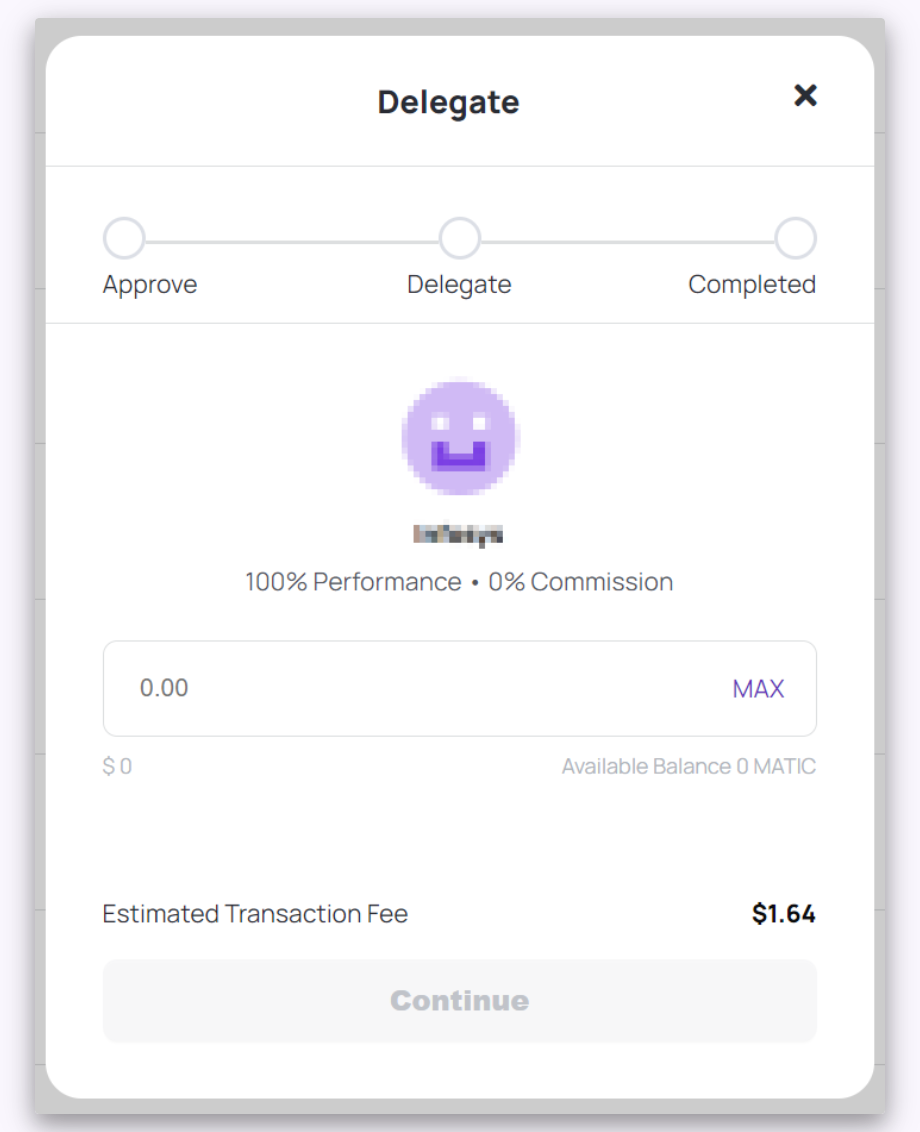
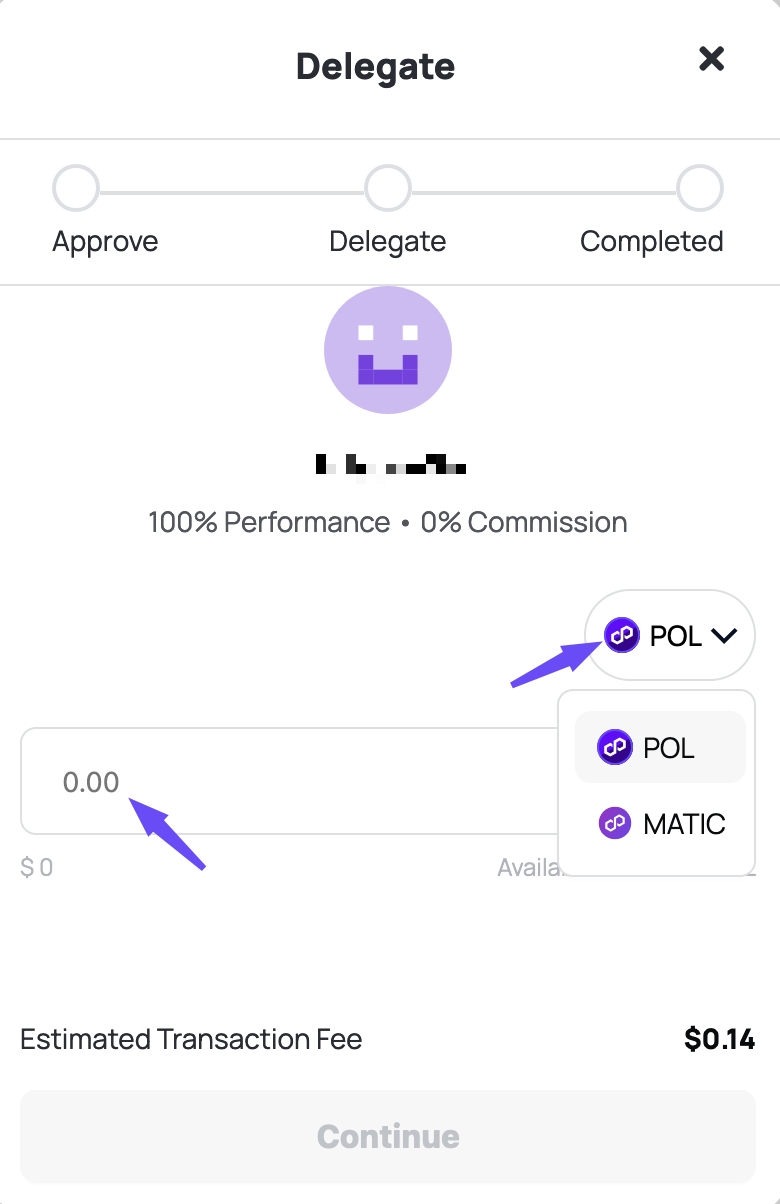
PoS: MATIC to POL update
- Update MATIC token to POL across different PoS docs

diff --git a/docs/pos/how-to/delegate.md b/docs/pos/how-to/delegate.md
@@ -2,12 +2,20 @@
 comments: true
 ---
 
-
 # How to delegate
 
-This is a step-by-step guide to help you become a delegator on the Polygon Network.
+This is a step-by-step guide to help you become a delegator in the Polygon network.
 
-The only prerequisite is to have your MATIC tokens and ETH on the Ethereum mainnet address.
+The only prerequisite is to have your POL tokens and ETH on the Ethereum mainnet address.
+
+!!! info "Staking MATIC"
+
+    Polygon network is transitioning from MATIC to POL, which will serve as the gas and staking token on Polygon PoS. Use the links below to learn more:
+
+    - [Migrate from MATIC to POL](../get-started/matic-to-pol.md)
+    - [POL token specs](../concepts/tokens/pol.md)
+    
+    It is advisable to [migrate your MATIC tokens to POL](../get-started/matic-to-pol.md), but if you continue to delegate MATIC tokens, you'll receive the staking rewards in the form of POL tokens.
 
 ## Access the dashboard
 
@@ -34,7 +42,7 @@ The only prerequisite is to have your MATIC tokens and ETH on the Ethereum mainn
     ![img](../../img/pos/home.png)
     </center>
 
-  2. Enter the amount of MATIC to delegate.
+  2. Select POL or MATIC from the drop-down list and enter the token amount to delegate. It is recommended to migrate your MATIC tokens to POL and delegate POL tokens. If you choose MATIC, you'll still receive your staking rewards in POL. Then, select **Continue**.
     <center>
     ![img](../../img/pos/delegateB.png){width=50%}
     </center>
@@ -70,7 +78,7 @@ To view your delegations, select **My Account**.
     ![img](../../img/pos/withdraw-reward.png)
     </center>
 
-This will withdraw the MATIC token rewards to your Ethereum address.
+This will withdraw the POL token rewards to your Ethereum address.
 
 ## Restake rewards
 
@@ -85,7 +93,7 @@ This will withdraw the MATIC token rewards to your Ethereum address.
     ![img](../../img/pos/restake-rewards.png)
 
 
-This will restake the MATIC token rewards to the validator and increase your delegation stake.
+This will restake the POL token rewards to the validator and increase your delegation stake.
 
 ## Unbond from a validator
 
@@ -135,7 +143,7 @@ Moving stake from one node to another node is a single transaction. There are no
 
 This will move the stake. The dashboard will update *after 12 block confirmations*.
 
-# Common queries and solutions
+## Common queries and solutions
 
 ### What is the staking dashboard URL?
 
@@ -143,7 +151,7 @@ The staking dashboard URL is https://staking.polygon.technology/.
 
 ### What is the minimum stake amount?
 
-There is no minimum stake amount to delegate. However, you can always start with 1 MATIC token.
+There is no minimum stake amount to delegate. However, you can always start with 1 POL token.
 
 
 ### How to stake tokens on Polygon?
@@ -165,7 +173,7 @@ All staking transactions of Polygon PoS take place on Ethereum for security reas
 The time taken to complete a transaction depends on the gas fees that you have allowed and also the network congestion of Ethereum mainnet at that point in time. You can always use the **Speed Up** option to increase the gas fees so that your transaction can be completed soon.
 
 
-### I've staked my MATIC tokens. How can I stake more?
+### I've staked my POL tokens. How can I stake more?
 
 Navigate to the **Your Delegations** page and choose one of the stakes. Then click on **Stake More**.
 
@@ -243,7 +251,7 @@ Please watch the video for a graphical illustration of how this works:
 
 ### I want to restake rewards but I am unable to.
 
-You would need to have a minimum of **2 MATIC** to restake rewards.
+You'll need to have a minimum of **2 POL** to restake rewards.
 
 ### How to withdraw rewards?
 
@@ -268,7 +276,7 @@ Please watch the video for a graphical illustration of how this works:
 
 ### I want to withdraw rewards but I am unable to.
 
-You would need to have a minimum of **2 MATIC** available to withdraw rewards.
+You'll need to have a minimum of **2 POL** available to withdraw rewards.
 
 ### How to claim stake?
 
@@ -329,7 +337,7 @@ On the dashboard, you can click on the **My Account** option on the left-hand si
 
 Yes. You should maintain at least ~0.05-0.1 ETH balance for gas fees to be safe.
 
-### Do I need to deposit MATIC tokens to the Polygon mainnet network for staking?
+### Do I need to deposit POL tokens to the Polygon mainnet network for staking?
 
 No. All your funds need to be on the main Ethereum network.
 
@@ -341,7 +349,7 @@ Please check if you have enough ETH for the gas fees.
 
 The rewards are distributed whenever a checkpoint is submitted.
 
-Currently, 71795 MATIC tokens are distributed proportionately on each successful checkpoint submission to each delegator based on their stake relative to the overall staking pool of all validators and delegators. Also, the percentage for the reward distributed to each delegator will vary with each checkpoint depending on the relative stake of the delegator, validator and the overall stake.
+Currently, 71795 POL tokens are distributed proportionately on each successful checkpoint submission to each delegator based on their stake relative to the overall staking pool of all validators and delegators. Also, the percentage for the reward distributed to each delegator will vary with each checkpoint depending on the relative stake of the delegator, validator and the overall stake.
 
 Note that there is a 10% proposer bonus that accrues to the validator who submits the checkpoint, but over time, the effect of the extra bonus is nullified over multiple checkpoints by different validators.
 
@@ -351,7 +359,7 @@ You can track checkpoints on the staking contract [here](https://etherscan.io/ad
 
 ### Why do rewards keep getting decreased at every checkpoint?
 
-Actual rewards earned will depend on the actual total locked supply in the network at each checkpoint. This is expected to vary significantly as more MATIC tokens get locked in the staking contracts.
+Actual rewards earned will depend on the actual total locked supply in the network at each checkpoint. This is expected to vary significantly as more POL tokens get locked in the staking contracts.
 
 Rewards will be higher, to begin with, and will keep decreasing as the locked supply % goes up. This change in locked supply is captured at every checkpoint, and rewards are calculated based on this.
 

diff --git a/docs/pos/get-started/becoming-a-validator.md b/docs/pos/get-started/becoming-a-validator.md
@@ -2,9 +2,16 @@
 comments: true
 ---
 
-Validators are the key actor in maintaining the Polygon PoS network. Validators run a full node, secure the network by staking MATIC to produce blocks, validate and participate in PoS consensus.
+!!! info "Transitioning to POL"
 
-Validators play a crucial role in maintaining the integrity and security of the Polygon PoS network. By running a full node, validators contribute to the network's infrastructure and help facilitate transactions. They secure the network by staking MATIC tokens, which enables them to produce blocks and participate in network consensus (PoS). This contributes to greater network security and enhances network decentralization making it more resilient against potential attacks.
+    Polygon network is transitioning from MATIC to POL, which will serve as the gas and staking token on Polygon PoS. Use the links below to learn more:
+
+    - [Migrate from MATIC to POL](../get-started/matic-to-pol.md)
+    - [POL token specs](../concepts/tokens/pol.md)
+
+Validators are the key actor in maintaining the Polygon PoS network. Validators run a full node, secure the network by staking POL to produce blocks, validate and participate in PoS consensus.
+
+Validators play a crucial role in maintaining the integrity and security of the Polygon PoS network. By running a full node, validators contribute to the network's infrastructure and help facilitate transactions. They secure the network by staking POL tokens, which enables them to produce blocks and participate in network consensus (PoS). This contributes to greater network security and enhances network decentralization making it more resilient against potential attacks.
 
 In return for their efforts, validators are rewarded with incentives, encouraging active participation and commitment to the network's stability and growth.
 
@@ -29,7 +36,7 @@ To be a validator on the Polygon PoS network, you must do the following:
 
 * Run a sentry node: A separate machine running a Heimdall node and a Bor node. A sentry node is open to all nodes on the Polygon PoS network.
 * Run a validator node: A separate machine running a Heimdall node and a Bor node. A validator node is only open to its sentry node and closed to the rest of the network.
-* Stake the MATIC tokens in the staking contracts deployed on the Ethereum mainnet.
+* Stake the POL tokens in the staking contracts deployed on the Ethereum mainnet.
 
 ## Components
 
@@ -68,11 +75,11 @@ Bor is the block producing node and layer for the Polygon PoS network. It is bas
 
     Keep up with the latest node and validator updates from the Polygon team and the community by keeping an eye on the [announcements posed to Polygon forums](https://forum.polygon.technology/c/announcement/6).
 
-A blockchain validator is someone who is responsible for validating transactions within a blockchain. On the Polygon PoS network, any participant can be qualified to become a Polygon's validator by running a validator node (sentry + validator) to earn rewards and collect transaction fees. To ensure the good participation by validators, they lock up at least 1 MATIC token as a stake in the ecosystem.
+A blockchain validator is someone who is responsible for validating transactions within a blockchain. On the Polygon PoS network, any participant can be qualified to become a Polygon's validator by running a validator node (sentry + validator) to earn rewards and collect transaction fees. To ensure the good participation by validators, they lock up at least 1 POL token as a stake in the ecosystem.
 
-!!! info "PIP4 raises the minimum staking amount"
+!!! info "PIP4 raised the minimum staking amount"
 
-    After the implementation of the [PIP4 governance proposal](https://forum.polygon.technology/t/pip-4-validator-performance-management/9956) at the contract level, the minimum staking amount will increase to *10,000 MATIC*.
+    After the implementation of the [PIP4 governance proposal](https://forum.polygon.technology/t/pip-4-validator-performance-management/9956) at the contract level, the minimum staking amount was increased to *10,000 POL*.
 
 Any validator on the Polygon PoS network has the following responsibilities:
 

diff --git a/docs/pos/how-to/troubleshoot/technical-faqs.md b/docs/pos/how-to/troubleshoot/technical-faqs.md
@@ -221,7 +221,7 @@ Under the current limit, a maximum of 105 validators can be active at any given 
 
 Set the `stake-amount` and `heimdall-fee-amount` values according to the logic described below.
 
-A minimum of 10 Matic tokens is required for the stake amount whereas heimdall fee should be greater than 10. For example, your stake amount is 400 then the heimdall fee should be 20. We suggest to keep the Heimdall fee as 20.
+A minimum of 10 POL tokens is required for the stake amount whereas heimdall fee should be greater than 10. For example, your stake amount is 400 then the heimdall fee should be 20. We suggest to keep the Heimdall fee as 20.
 
 However, please note that the values entered in stake amount and `heimdal-fee-amount` should be entered in 18 decimals.
 
@@ -271,7 +271,7 @@ $ curl [http://localhost:26657/status](http://localhost:26657/status)
 Check the value of the `catching_up` flag. If it is `false` then the node is all synced up.
 
 
-### 15. If someone becomes a top 10 staker, how do they receive their MATIC reward?
+### 15. If someone becomes a top 10 staker, how do they receive their POL reward?
 
 Stage 1 rewards are not based on stake. Participants with high stake don't automatically qualify for a reward in this stage.
 
@@ -289,7 +289,7 @@ The correct version of Heimdall for stage 1 should be `heimdalld version is beta
 
 ### 17. What values should I add in the stake amount and fee amount?
 
-A minimum of 10 Matic tokens is required for the stake amount whereas heimdall fee should be greater than 10. For example, your stake amount is 400 then the heimdall fee should be 20. We suggest to keep the Heimdall fee as 20.
+A minimum of 10 POL tokens is required for the stake amount whereas heimdall fee should be greater than 10. For example, your stake amount is 400 then the heimdall fee should be 20. We suggest to keep the Heimdall fee as 20.
 
 However, please note that the values entered in stake amount and `heimdal-fee-amount` should be entered in 18 decimals.
 

diff --git a/docs/pos/governance/governance-fundamentals.md b/docs/pos/governance/governance-fundamentals.md
@@ -8,7 +8,7 @@ Changes to the network require a high level of coordination and ecosystem consen
 
     A block number is selected, before which all nodes in the network should have upgraded to the new version; nodes running the old version will be disconnected from the canonical chain after the hard fork block.
 
-    Should there be ${1/3}+1$ staked MATIC in disagreement with the fork, two canonical chains will temporarily form until the end of the current span. Afterwards, Bor will stop producing blocks, and the chain will halt until consensus is reached.
+    Should there be ${1/3}+1$ staked POL in disagreement with the fork, two canonical chains will temporarily form until the end of the current span. Afterwards, Bor will stop producing blocks, and the chain will halt until consensus is reached.
 
     In contrast, a *soft fork* is backward-compatible with the pre-fork blocks. This type of protocol change does not require nodes to upgrade before a deadline, therefore, multiple versions of the node software can be running at once and be able to validate transactions. 
 
@@ -69,7 +69,7 @@ The Heimdall client also has an [in-built governance module](https://github.com/
 2. Each validator then tallies votes cast by validators.
 3. When the defined voting parameters are met, each validator makes the upgrade with the proposal data.
 
-The current voting parameters (denominated in staked MATIC):
+The current voting parameters (denominated in staked POL):
 
 - Quorum: 33.4%		
 - Threshold: 50% 

diff --git a/docs/pos/how-to/operate-validator-node/validator-staking-operations.md b/docs/pos/how-to/operate-validator-node/validator-staking-operations.md
@@ -52,7 +52,7 @@ You can stake on Polygon using the [validator dashboard](https://staking.polygon
 ### Stake using the staking dashboard
 
 1. Access the [validator dashboard](https://staking.polygon.technology/validators/).
-2. Log in with your wallet. MetaMask is the recommended wallet. You have to make sure that you login using the same address where your MATIC tokens are present.
+2. Log in with your wallet. MetaMask is the recommended wallet. You have to make sure that you login using the same address where your POL tokens are present.
 3. Select **Become a Validator**. You will be asked to set up your node. If you haven't already set up your node by now, you will need to do so, else if you proceed ahead you will receive an error when you attempt to stake.
 4. On the next screen, add your validator details, the commission rate, and the staking amount.
 5. Select **Stake Now**.
@@ -86,7 +86,7 @@ The following output should appear:
 ```json
 address: 0x6c468cf8c9879006e22ec4029696e005c2319c9d
 coins:
-- denom: matic
+- denom: pol
 amount:
     i: "1000000000000000000000"
 accountnumber: 0

diff --git a/docs/pos/architecture/heimdall/chain-management.md b/docs/pos/architecture/heimdall/chain-management.md
@@ -13,8 +13,8 @@ type ChainParams struct {
  // BorChainID is valid bor chainId
  BorChainID            string                  `json:"bor_chain_id" yaml:"bor_chain_id"`
 
- // MaticTokenAddress is valid matic token address
- MaticTokenAddress     hmTypes.HeimdallAddress `json:"matic_token_address" yaml:"matic_token_address"`
+ // PolTokenAddress is valid POL token address
+ PolTokenAddress     hmTypes.HeimdallAddress `json:"pol_token_address" yaml:"pol_token_address"`
 
  // StakingManagerAddress is valid contract address
  StakingManagerAddress hmTypes.HeimdallAddress `json:"staking_manager_address" yaml:"staking_manager_address"`
@@ -53,7 +53,7 @@ Expected result:
 tx_confirmation_time: 12s
 chain_params:
   bor_chain_id: "15001"
-  matic_token_address: "0x0000000000000000000000000000000000000000"
+  pol_token_address: "0x0000000000000000000000000000000000000000"
   staking_manager_address: "0x0000000000000000000000000000000000000000"
   root_chain_address: "0x0000000000000000000000000000000000000000"
   staking_info_address: "0x0000000000000000000000000000000000000000"

diff --git a/docs/pos/how-to/full-node/full-node-gcp.md b/docs/pos/how-to/full-node/full-node-gcp.md
@@ -3,10 +3,10 @@ comments: true
 ---
 
 !!! warning "Mumbai testnet deprecated"
+      
+      Mumbai testnet is deprecated and will not receive any future updates. GCP support for deploying Amoy testnet nodes will be ready soon. Stay tuned!
 
-   Mumbai testnet is deprecated and will not receive any future updates. GCP support for deploying Amoy testnet nodes will be ready soon. Stay tuned!
-
-In this document, we will describe how to deploy Polygon nodes into a Virtual Machine instance on the Google Cloud Platform (GCP).
+This document describes how to deploy Polygon PoS nodes into a Virtual Machine instance on the Google Cloud Platform (GCP).
 
 It is recommended to use any modern Debian or Linux Ubuntu OS with long-term support, i.e. Debian 11, Ubuntu 20.04. We'll focus on Ubuntu 20.04 in this guide.
 

diff --git a/docs/pos/how-to/operate-validator-node/validator-best-practices.md b/docs/pos/how-to/operate-validator-node/validator-best-practices.md
@@ -10,7 +10,7 @@ The *signer wallet* is an address that is used for signing Heimdall blocks, chec
 
 The validator must keep two types of balances in this wallet:
 
-- MATIC tokens on Heimdall (through top-up transactions) to perform validator responsibilities on Heimdall.
+- POL tokens on Heimdall (through top-up transactions) to perform validator responsibilities on Heimdall.
 - ETH on Ethereum to send checkpoints on Ethereum.
 
 The *owner wallet* is an address that is used for staking, re-staking, changing the signer key, withdrawing rewards, and managing delegation related parameters on the Ethereum chain. 

diff --git a/docs/pos/how-to/validator/prerequisites.md b/docs/pos/how-to/validator/prerequisites.md
@@ -199,7 +199,7 @@ Run: `heimdalld version`
 
 ### 6. Which private key should be added when generating the validator key?
 
-The private key to be used is your wallet's ETH address where your MATIC testnet tokens are stored. You can complete the setup with one public-private key pair tied to the address submitted on the form.
+The private key to be used is your wallet's ETH address where your POL testnet tokens are stored. You can complete the setup with one public-private key pair tied to the address submitted on the form.
 
 ### 7. Where can I find Heimdall account info location?
 

diff --git a/docs/pos/how-to/validator/validator-ansible.md b/docs/pos/how-to/validator/validator-ansible.md
@@ -408,7 +408,7 @@ Save the changes in `config.toml` file.
 On Polygon, you should keep the owner and signer keys different.
 
 * Signer — the address that signs the checkpoint transactions. The recommendation is to keep at least 1 ETH on the signer address.
-* Owner — the address that does the staking transactions. The recommendation is to keep the MATIC tokens on the owner address.
+* Owner — the address that does the staking transactions. The recommendation is to keep the POL tokens on the owner address.
 
 ### Generate a Heimdall private key
 

diff --git a/docs/pos/how-to/validator/validator-binaries.md b/docs/pos/how-to/validator/validator-binaries.md
@@ -387,7 +387,7 @@ To get the Node ID of Bor on the sentry machine:
 On Polygon, it is recommended that you keep the owner and signer keys different.
 
 * Signer: The address that signs the checkpoint transactions. It is advisable to keep at least 1 ETH on the signer address.
-* Owner: The address that does the staking transactions. It is advisable to keep the MATIC tokens on the owner address.
+* Owner: The address that does the staking transactions. It is advisable to keep the POL tokens on the owner address.
 
 ### Generating a Heimdall private key
 

diff --git a/docs/pos/get-started/building-on-polygon.md b/docs/pos/get-started/building-on-polygon.md
@@ -2,6 +2,13 @@
 comments: true
 ---
 
+!!! info "Transitioning to POL"
+
+    Polygon network is transitioning from MATIC to POL, which will serve as the gas and staking token on Polygon PoS. Use the links below to learn more:
+
+    - [Migrate from MATIC to POL](../get-started/matic-to-pol.md)
+    - [POL token specs](../concepts/tokens/pol.md)
+
 ## Overview
 
 All your favorite Ethereum tools (Foundry, Remix, Web3.js) work seamlessly on Polygon, with the same familiar UX. Just switch to the [Polygon RPC](https://polygon-rpc.com/) and keep building.
